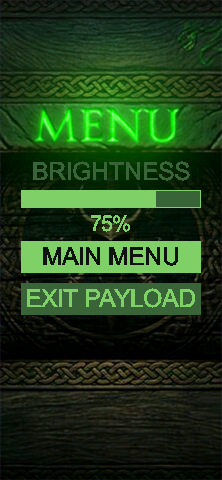
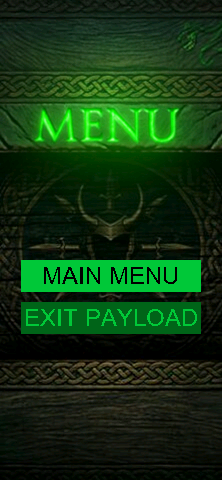
Fix upside-down portrait display + remove brightness control
Portrait (rotation 0) rendered 180° upside down: flip() always reversed the
native buffer, which is only correct for the landscape mapping (rotation
270/90). Portrait is identity-mapped, so the reverse flipped it. pagerctl
set_rotation() now sets _invert only for landscape rotations. This also fixes
the webui display preview being upside down, and the portrait pause-menu
buttons that felt reversed (they had been inverted to compensate for the bug;
that compensation is now removed so UP/DOWN/LEFT/RIGHT map naturally).

Brightness control removed entirely: under UI_TAKEOVER pagerOS owns the
backlight and reverts any value we set (confirmed: UCI write took but the
daemon still drove it back), so a brightness slider could never stick. Removed
the pause-menu brightness bar (portrait + landscape), the screen_brightness/
screen_dim_brightness/screen_dim_timeout config keys, their webui labels, and
the docs references. Brightness is left to the pager's native Settings menu.
Refreshed the portrait pause-menu screenshot to match.

Also revert the non-working UCI persist from pagerctl.set_brightness (kept as a
plain sysfs setter for libpagerctl.so API compatibility / non-takeover use).

Changed region(s): [[0.0811, 0.3125, 0.9189, 0.7188]]

diff --git a/payloads/user/reconnaissance/loki/web/scripts/config.js b/payloads/user/reconnaissance/loki/web/scripts/config.js
@@ -142,11 +142,6 @@ const ConfigTab = {
         'log_error': 'Show Error Messages',
         'log_critical': 'Show Critical Messages',
 
-        // Display
-        'screen_brightness': 'Screen Brightness (0-100)',
-        'screen_dim_brightness': 'Dimmed Brightness (0-100)',
-        'screen_dim_timeout': 'Dim Screen After Inactivity (seconds)',
-
         // Theme
         'os_detection': 'Enable OS Fingerprinting (nmap -O)',
         'enable_vulners_lookup': 'Enable Vulners.com CVE Lookup (auto-detects internet)',

diff --git a/payloads/user/reconnaissance/loki/display.py b/payloads/user/reconnaissance/loki/display.py
@@ -445,9 +445,9 @@ class Display:
         self._fb_lock.acquire()
         self._fb_lock.release()
 
-        current_brightness = self.pager.get_brightness()
-        if current_brightness < 0:
-            current_brightness = self.screen_brightness
+        # Brightness is owned by pagerOS (the daemon reverts any value we set under
+        # UI_TAKEOVER), so Loki no longer offers a brightness control — adjust it
+        # from the pager's native Settings menu instead.
 
         # Resolve pause background image
         pause_bg = None
@@ -482,15 +482,15 @@ class Display:
             options.append((title.upper(), (42, path)))
         options.append(("EXIT PAYLOAD", 0))
 
-        # selected: 0 = brightness bar, 1..N = buttons (1-indexed into options)
-        selected = 1
-        num_items = 1 + len(options)
+        # selected: 0-based index into options
+        selected = 0
+        num_items = len(options)
 
         # Pre-compute auto-fitted font sizes for buttons
         btn_w = 180
         btn_h = 32
         # Find the largest size that fits the widest label
-        all_labels = [label for label, _ in options] + ["BRIGHTNESS", "100%"]
+        all_labels = [label for label, _ in options]
         widest_label = max(all_labels, key=len)
         fs_btn = self._fit_font_size(widest_label, self.font_menu, btn_w, btn_h)
 
@@ -501,44 +501,20 @@ class Display:
                 self.pager.fill_rect(0, 0, self.width, self.height, pause_bg_color)
 
             # Title is baked into pause background image
-            y_off = 85
-
-            box_y = int(self.height * 0.10) - 3
-            box_h = int(self.height * 0.80)
-
-            bright_color = pause_text_color if selected == 0 else pause_accent_color
-
             btn_x = (self.width - btn_w) // 2
-
-            bar_y = y_off + box_y + 60
-            bar_x = btn_x
-            bar_w = btn_w
-            bar_h = 18
-
-            # BRIGHTNESS label tight above bar — same font size as buttons
-            bright_y = bar_y - fs_btn - 4
-            self.pager.draw_ttf_centered(bright_y, "BRIGHTNESS", bright_color, self.font_menu, fs_btn)
-
-            if selected == 0:
-                self.pager.rect(bar_x - 3, bar_y - 3, bar_w + 6, bar_h + 6, pause_text_color)
-            self.pager.fill_rect(bar_x, bar_y, bar_w, bar_h, pause_accent_color)
-            fill_w = int(bar_w * current_brightness / 100)
-            self.pager.fill_rect(bar_x, bar_y, fill_w, bar_h, pause_text_color)
-            self.pager.rect(bar_x, bar_y, bar_w, bar_h, pause_text_color)
-
-            pct_y = bar_y + bar_h + 4
-            fs_pct = max(8, fs_btn - 4)
-            self.pager.draw_ttf_centered(pct_y, f"{current_brightness}%", pause_text_color, self.font_menu, fs_pct)
-
             btn_gap = 10
-            first_btn_y = pct_y + fs_pct + 5
 
             # Get actual rendered height for vertical centering
             text_h = self.pager.ttf_height(self.font_menu, fs_btn)
 
+            # Center the button stack in the area below the baked title.
+            top = int(self.height * 0.28)
+            stack_h = len(options) * btn_h + (len(options) - 1) * btn_gap
+            first_btn_y = top + max(0, (self.height - 20 - top - stack_h) // 2)
+
             for i, (label, _action) in enumerate(options):
                 btn_y = first_btn_y + i * (btn_h + btn_gap)
-                is_sel = (i + 1 == selected)
+                is_sel = (i == selected)
                 btn_color = pause_text_color if is_sel else pause_accent_color
                 txt_color = pause_bg_color if is_sel else pause_text_color
                 self.pager.fill_rect(btn_x, btn_y, btn_w, btn_h, btn_color)
@@ -560,44 +536,32 @@ class Display:
         while True:
             button = self.pager.wait_button()
 
-            if button & self.pager.BTN_DOWN:
-                # Portrait hold: landscape-DOWN is the physical RIGHT-side button,
-                # so it moves the bar right / increases (and launcher -> next).
-                if selected == 0:
-                    current_brightness = min(100, current_brightness + 10)
-                    self.pager.set_brightness(current_brightness, persist=True)
-                    self.screen_brightness = current_brightness
-                    draw_menu()
-                elif selected - 1 == launcher_opt_idx and multi_launch:
+            # Portrait button mapping, now that the display renders upright (the
+            # old mapping was inverted to compensate for the upside-down panel bug).
+            if button & self.pager.BTN_UP:
+                # launcher -> next entry
+                if selected == launcher_opt_idx and multi_launch:
                     launcher_idx = (launcher_idx + 1) % len(launchers)
                     title, path = launchers[launcher_idx]
                     options[launcher_opt_idx] = (title.upper(), (42, path))
                     draw_menu()
-            elif button & self.pager.BTN_UP:
-                # Portrait hold: landscape-UP is the physical LEFT-side button,
-                # so it moves the bar left / decreases (and launcher -> prev).
-                if selected == 0:
-                    current_brightness = max(20, current_brightness - 10)
-                    self.pager.set_brightness(current_brightness, persist=True)
-                    self.screen_brightness = current_brightness
-                    draw_menu()
-                elif selected - 1 == launcher_opt_idx and multi_launch:
+            elif button & self.pager.BTN_DOWN:
+                # launcher -> previous entry
+                if selected == launcher_opt_idx and multi_launch:
                     launcher_idx = (launcher_idx - 1) % len(launchers)
                     title, path = launchers[launcher_idx]
                     options[launcher_opt_idx] = (title.upper(), (42, path))
                     draw_menu()
-            elif button & self.pager.BTN_LEFT:
-                # Physical LEFT = navigate down (portrait mapping, corrected)
+            elif button & self.pager.BTN_RIGHT:
+                # navigate down the list
                 selected = (selected + 1) % num_items
                 draw_menu()
-            elif button & self.pager.BTN_RIGHT:
-                # Physical RIGHT = navigate up (portrait mapping, corrected)
+            elif button & self.pager.BTN_LEFT:
+                # navigate up the list
                 selected = (selected - 1) % num_items
                 draw_menu()
             elif button & self.pager.BTN_A:
-                if selected == 0:
-                    continue  # Brightness has no select action
-                action = options[selected - 1][1]
+                action = options[selected][1]
                 self.dialog_showing = False
                 if isinstance(action, tuple):
                     self._handoff_launcher_path = action[1]
@@ -616,9 +580,9 @@ class Display:
         self._fb_lock.acquire()
         self._fb_lock.release()
 
-        current_brightness = self.pager.get_brightness()
-        if current_brightness < 0:
-            current_brightness = self.screen_brightness
+        # Brightness is owned by pagerOS (the daemon reverts any value we set under
+        # UI_TAKEOVER), so Loki no longer offers a brightness control — adjust it
+        # from the pager's native Settings menu instead.
 
         # Resolve pause background image
         pause_bg = None
@@ -653,14 +617,14 @@ class Display:
             options.append((title.upper(), (42, path)))
         options.append(("EXIT PAYLOAD", 0))
 
-        # selected: 0 = brightness bar, 1..N = buttons (1-indexed into options)
-        selected = 1
-        num_items = 1 + len(options)
+        # selected: 0-based index into options
+        selected = 0
+        num_items = len(options)
 
-        # Pre-compute auto-fitted font size — fits widest label including BRIGHTNESS
+        # Pre-compute auto-fitted font size — fits widest label
         btn_w = 200
         btn_h = 30
-        all_labels = [label for label, _ in options] + ["BRIGHTNESS", "100%"]
+        all_labels = [label for label, _ in options]
         widest_label = max(all_labels, key=len)
         fs_btn = self._fit_font_size(widest_label, self.font_menu, btn_w, btn_h)
 
@@ -671,42 +635,18 @@ class Display:
                 self.pager.fill_rect(0, 0, self.width, self.height, pause_bg_color)
 
             # Title is baked into pause background image
-            box_x, box_y = 10, 10
-            box_w, box_h = self.width - 20, self.height - 20
-
-            # Brightness section
-            bright_color = pause_text_color if selected == 0 else pause_accent_color
-
             btn_x = (self.width - btn_w) // 2
 
-            bar_y = 67
-            bar_x = btn_x
-            bar_w = btn_w
-            bar_h = 16
-
-            # BRIGHTNESS label tight above bar
-            lbl_w = self.pager.ttf_width("BRIGHTNESS", self.font_menu, fs_btn)
-            self.pager.draw_ttf((self.width - lbl_w) // 2, bar_y - fs_btn - 2, "BRIGHTNESS", bright_color, self.font_menu, fs_btn)
-            if selected == 0:
-                self.pager.rect(bar_x - 3, bar_y - 3, bar_w + 6, bar_h + 6, pause_text_color)
-            self.pager.fill_rect(bar_x, bar_y, bar_w, bar_h, pause_accent_color)
-            fill_w = int(bar_w * current_brightness / 100)
-            self.pager.fill_rect(bar_x, bar_y, fill_w, bar_h, pause_text_color)
-            self.pager.rect(bar_x, bar_y, bar_w, bar_h, pause_text_color)
-
-            pct_text = f"{current_brightness}%"
-            fs_pct = max(8, fs_btn - 4)
-            pct_w = self.pager.ttf_width(pct_text, self.font_menu, fs_pct)
-            self.pager.draw_ttf((self.width - pct_w) // 2, 87, pct_text, pause_text_color, self.font_menu, fs_pct)
-
-            # Menu buttons - vertical stack
+            # Menu buttons - vertical stack, centered below the baked title
             btn_gap = 8
-            first_btn_y = 113
             text_h = self.pager.ttf_height(self.font_menu, fs_btn)
+            top = int(self.height * 0.30)
+            stack_h = len(options) * btn_h + (len(options) - 1) * btn_gap
+            first_btn_y = top + max(0, (self.height - 10 - top - stack_h) // 2)
 
             for i, (label, _action) in enumerate(options):
                 btn_y = first_btn_y + i * (btn_h + btn_gap)
-                is_sel = (i + 1 == selected)
+                is_sel = (i == selected)
                 btn_color = pause_text_color if is_sel else pause_accent_color
                 txt_color = pause_bg_color if is_sel else pause_text_color
                 self.pager.fill_rect(btn_x, btn_y, btn_w, btn_h, btn_color)
@@ -735,31 +675,19 @@ class Display:
                 selected = (selected + 1) % num_items
                 draw_menu()
             elif button & self.pager.BTN_LEFT:
-                if selected == 0:
-                    current_brightness = max(20, current_brightness - 10)
-                    self.pager.set_brightness(current_brightness, persist=True)
-                    self.screen_brightness = current_brightness
-                    draw_menu()
-                elif selected - 1 == launcher_opt_idx and multi_launch:
+                if selected == launcher_opt_idx and multi_launch:
                     launcher_idx = (launcher_idx - 1) % len(launchers)
                     title, path = launchers[launcher_idx]
                     options[launcher_opt_idx] = (title.upper(), (42, path))
                     draw_menu()
             elif button & self.pager.BTN_RIGHT:
-                if selected == 0:
-                    current_brightness = min(100, current_brightness + 10)
-                    self.pager.set_brightness(current_brightness, persist=True)
-                    self.screen_brightness = current_brightness
-                    draw_menu()
-                elif selected - 1 == launcher_opt_idx and multi_launch:
+                if selected == launcher_opt_idx and multi_launch:
                     launcher_idx = (launcher_idx + 1) % len(launchers)
                     title, path = launchers[launcher_idx]
                     options[launcher_opt_idx] = (title.upper(), (42, path))
                     draw_menu()
             elif button & self.pager.BTN_A:
-                if selected == 0:
-                    continue  # Brightness has no select action
-                action = options[selected - 1][1]
+                action = options[selected][1]
                 self.dialog_showing = False
                 if isinstance(action, tuple):
                     self._handoff_launcher_path = action[1]

diff --git a/payloads/user/reconnaissance/loki/lib/pagerctl.py b/payloads/user/reconnaissance/loki/lib/pagerctl.py
@@ -135,7 +135,13 @@ class Pager:
     def __exit__(self, *a): self.cleanup(); return False
 
     # ----------------------------- geometry ------------------------------
-    def set_rotation(self, rotation): self.rotation = rotation
+    def set_rotation(self, rotation):
+        self.rotation = rotation
+        # flip() reverses the whole native buffer (a 180° rotation) to correct the
+        # panel's physical mount. That is only right for the landscape native
+        # mapping (rotation 270/90); portrait (rotation 0) is identity-mapped, so
+        # reversing it renders the screen upside down. Invert for landscape only.
+        self._invert = rotation in (90, 270)
 
     @property
     def width(self):
@@ -575,39 +581,22 @@ class Pager:
         except Exception:
             pass
         return None
-    def set_brightness(self, percent, persist=False):
-        """Set backlight brightness (0-100%).
+    def set_brightness(self, percent):
+        """Set backlight brightness (0-100%) via sysfs.
 
-        A direct sysfs write alone does not stick under UI_TAKEOVER: pagerOS
-        stores its brightness in UCI (system.@pager[0].lcd_brightness, raw units)
-        and re-applies that value on UI events (button press, screen wake), which
-        reverts our write. With persist=True we also update UCI the same way the
-        native Settings menu does, so the daemon keeps our value instead of
-        reverting it. (Only persist on a deliberate user change, not on every
-        transient dim/wake, to avoid needless flash writes.)
+        NOTE: under UI_TAKEOVER this does NOT stick — pagerOS owns the backlight
+        and re-applies its own value on UI events, reverting the write within a
+        moment. Useful only when the pager daemon is stopped (non-takeover
+        payloads). Brightness for takeover payloads should be left to pagerOS.
         """
         d = self._bl_dir()
         if not d: return -1
         try:
             mx = int(open(os.path.join(d, "max_brightness")).read())
-            raw = int(mx * percent / 100)
-            open(os.path.join(d, "brightness"), "w").write(str(raw))
-            if persist:
-                self._persist_brightness(raw)
+            open(os.path.join(d, "brightness"), "w").write(str(int(mx * percent / 100)))
             return 0
         except Exception:
             return -1
-
-    def _persist_brightness(self, raw):
-        """Store brightness in pagerOS UCI config so the daemon stops reverting it."""
-        try:
-            import subprocess
-            subprocess.run(["uci", "set", f"system.@pager[0].lcd_brightness={int(raw)}"],
-                           stdout=subprocess.DEVNULL, stderr=subprocess.DEVNULL, timeout=5)
-            subprocess.run(["uci", "commit", "system"],
-                           stdout=subprocess.DEVNULL, stderr=subprocess.DEVNULL, timeout=5)
-        except Exception:
-            pass
     def get_brightness(self):
         d = self._bl_dir()
         if not d: return -1

diff --git a/payloads/user/reconnaissance/loki/shared.py b/payloads/user/reconnaissance/loki/shared.py
@@ -184,9 +184,6 @@ class SharedData:
             "log_critical": True,
 
             "__title_display__": "Display",
-            "screen_brightness": 80,
-            "screen_dim_brightness": 25,
-            "screen_dim_timeout": 60,
             "screen_rotation": 270,
 
             "__title_theme__": "Theme",

diff --git a/README.md b/README.md
@@ -197,14 +197,15 @@ Press **B** while Loki is running to open the pause menu:
 
 | Option | Description |
 |--------|-------------|
-| **Brightness** | Adjust screen brightness 20–100% with LEFT/RIGHT (landscape) or UP/DOWN (portrait) |
 | **MAIN MENU** | Stop Loki and return to the graphical start menu |
 | **> Pagergotchi** | Hand off to Pagergotchi (only shown if installed) |
 | **EXIT PAYLOAD** | Stop Loki and return to the Pager launcher |
 
+Navigate with LEFT/RIGHT (portrait) or UP/DOWN (landscape); **A** selects, **B** closes the menu. Screen **brightness is managed by pagerOS** — set it from the Pager's native Settings menu.
+
 **Payload handoff:** Loki dynamically discovers other payloads via `launch_*.sh` scripts in the payload directory. Each launcher script declares a `# Title:` and `# Requires:` path — if the required path exists, the launcher appears as a menu option. Selecting it writes the launcher path to `data/.next_payload` and exits with code 42, which `payload.sh` picks up to launch the target payload.
 
-The screen automatically dims after a configurable timeout to save battery. Any button press wakes the screen.
+Screen dimming, sleep, and brightness are handled by pagerOS (Loki runs under the firmware's UI takeover, so the OS retains backlight control).
 
 ### Web Interface
 
@@ -320,10 +321,9 @@ Edit `config/shared_config.json` to customize Loki's behavior:
 ### Display Settings
 | Setting | Default | Description |
 |---------|---------|-------------|
-| `screen_brightness` | 80 | Default screen brightness (20-100%) |
-| `screen_dim_brightness` | 25 | Brightness when dimmed (20-100%) |
-| `screen_dim_timeout` | 60 | Seconds of inactivity before dimming |
 | `screen_rotation` | 270 | Display rotation (270 = landscape, 0 = portrait) |
+
+> Screen brightness, dimming, and sleep are owned by pagerOS under UI takeover — adjust brightness from the Pager's native Settings menu, not from Loki.
 
 ### Theme Settings
 | Setting | Default | Description |

diff --git a/THEME_README.md b/THEME_README.md
@@ -502,7 +502,7 @@ The `pause_menu_colors` object controls the in-game pause menu dynamic elements:
 |-----|-------------|
 | `bg` | Fallback background (not used when `pause_bg.png` exists) |
 | `text` | Text and highlight color |
-| `accent` | Accent color for brightness bar |
+| `accent` | Accent color for unselected menu buttons |
 
 #### Web UI Colors
 
